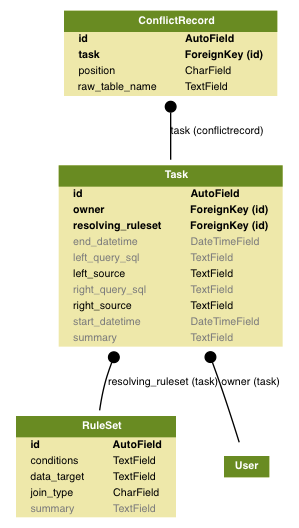
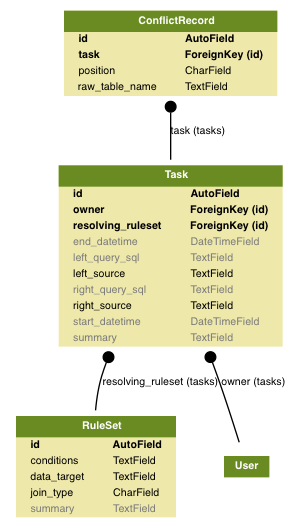
add related_name for relationships

Changed region(s): [[0.301, 0.6667, 0.7224, 0.7879], [0.6622, 0.2424, 0.8729, 0.2727], [0.9331, 0.697, 0.9632, 0.7273]]

diff --git a/qdiff/models.py b/qdiff/models.py
@@ -25,10 +25,10 @@ class Task(models.Model):
     end_datetime = models.DateTimeField(null=True, blank=True)
     owner = models.ForeignKey(
         'auth.User', on_delete=models.SET_NULL,
-        null=True)
+        null=True, related_name='tasks')
     resolving_ruleset = models.ForeignKey(
         'RuleSet', on_delete=models.SET_NULL,
-        null=True)
+        null=True, related_name='tasks')
 
 
 class ConflictRecord(models.Model):
@@ -36,7 +36,9 @@ class ConflictRecord(models.Model):
     ConflictRecord is the model for linking Tasks with dynamic raw tables
     """
     raw_table_name = models.TextField(max_length=100)
-    task = models.ForeignKey(Task, on_delete=models.CASCADE)
+    task = models.ForeignKey(
+        Task, on_delete=models.CASCADE,
+        related_name='tasks')
     POSITION_IN_TASK_CHOICES = (
         ('LF', 'Left'),
         ('RT', 'Right'),
